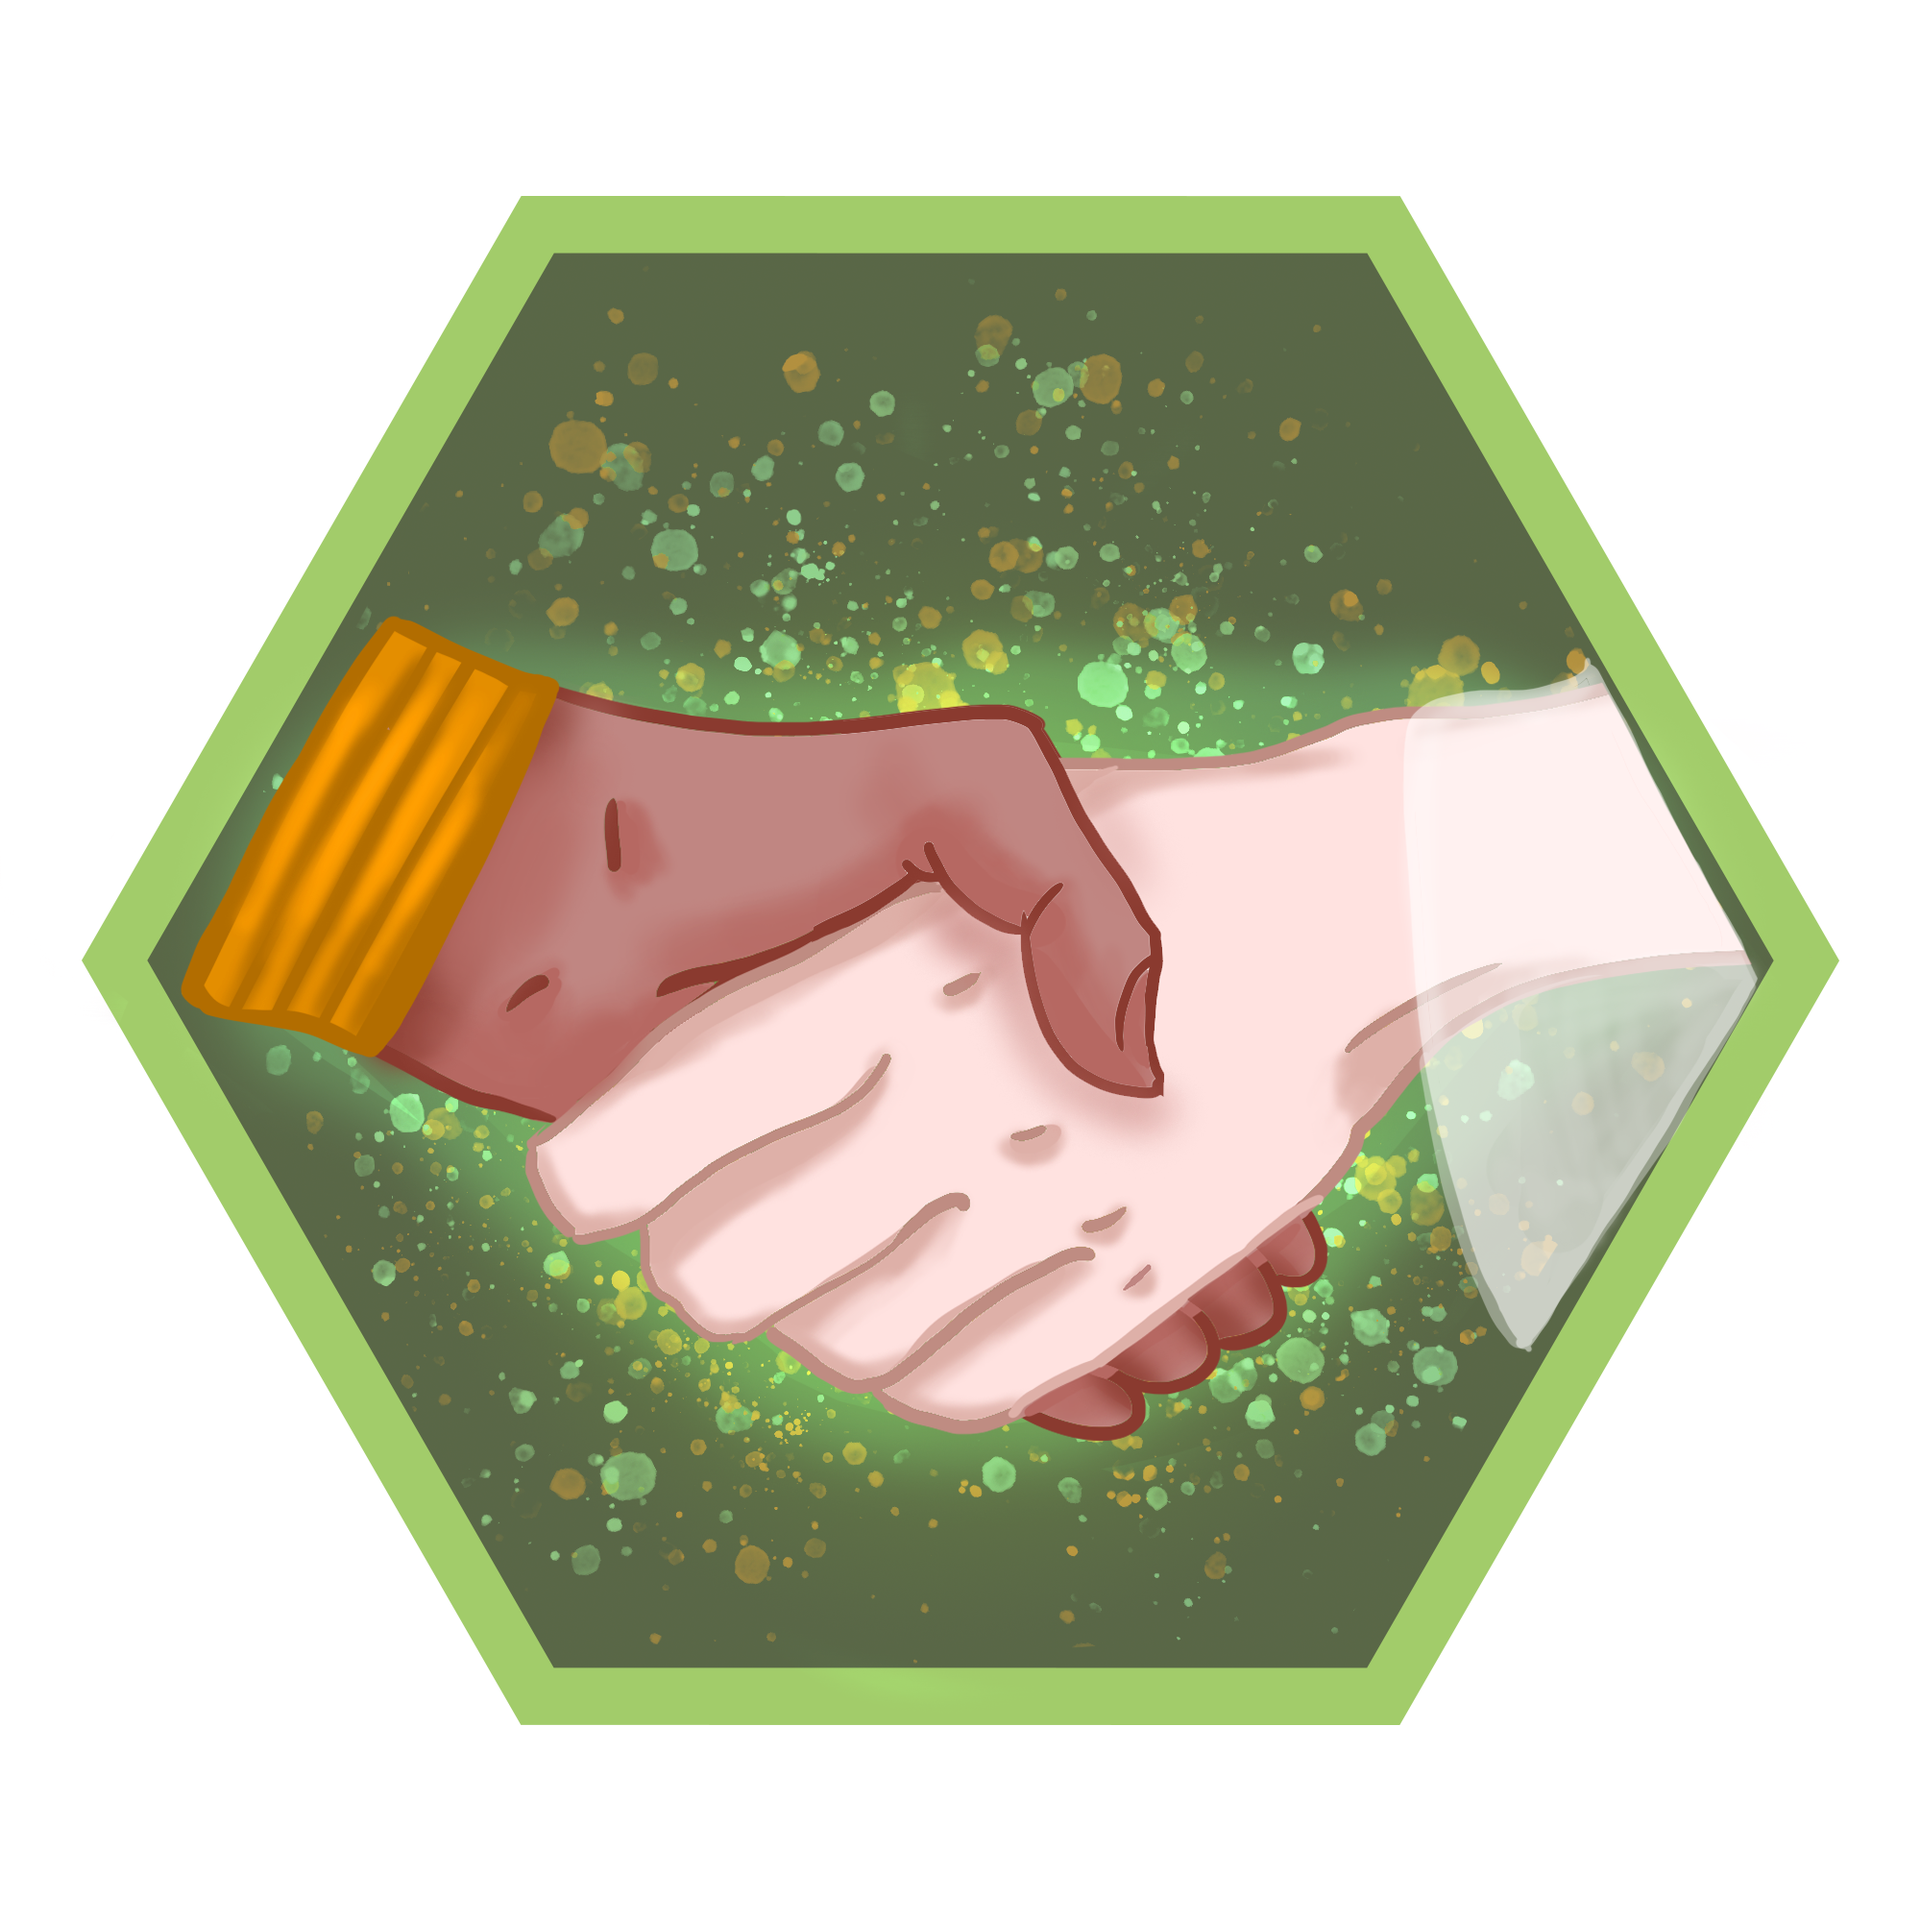
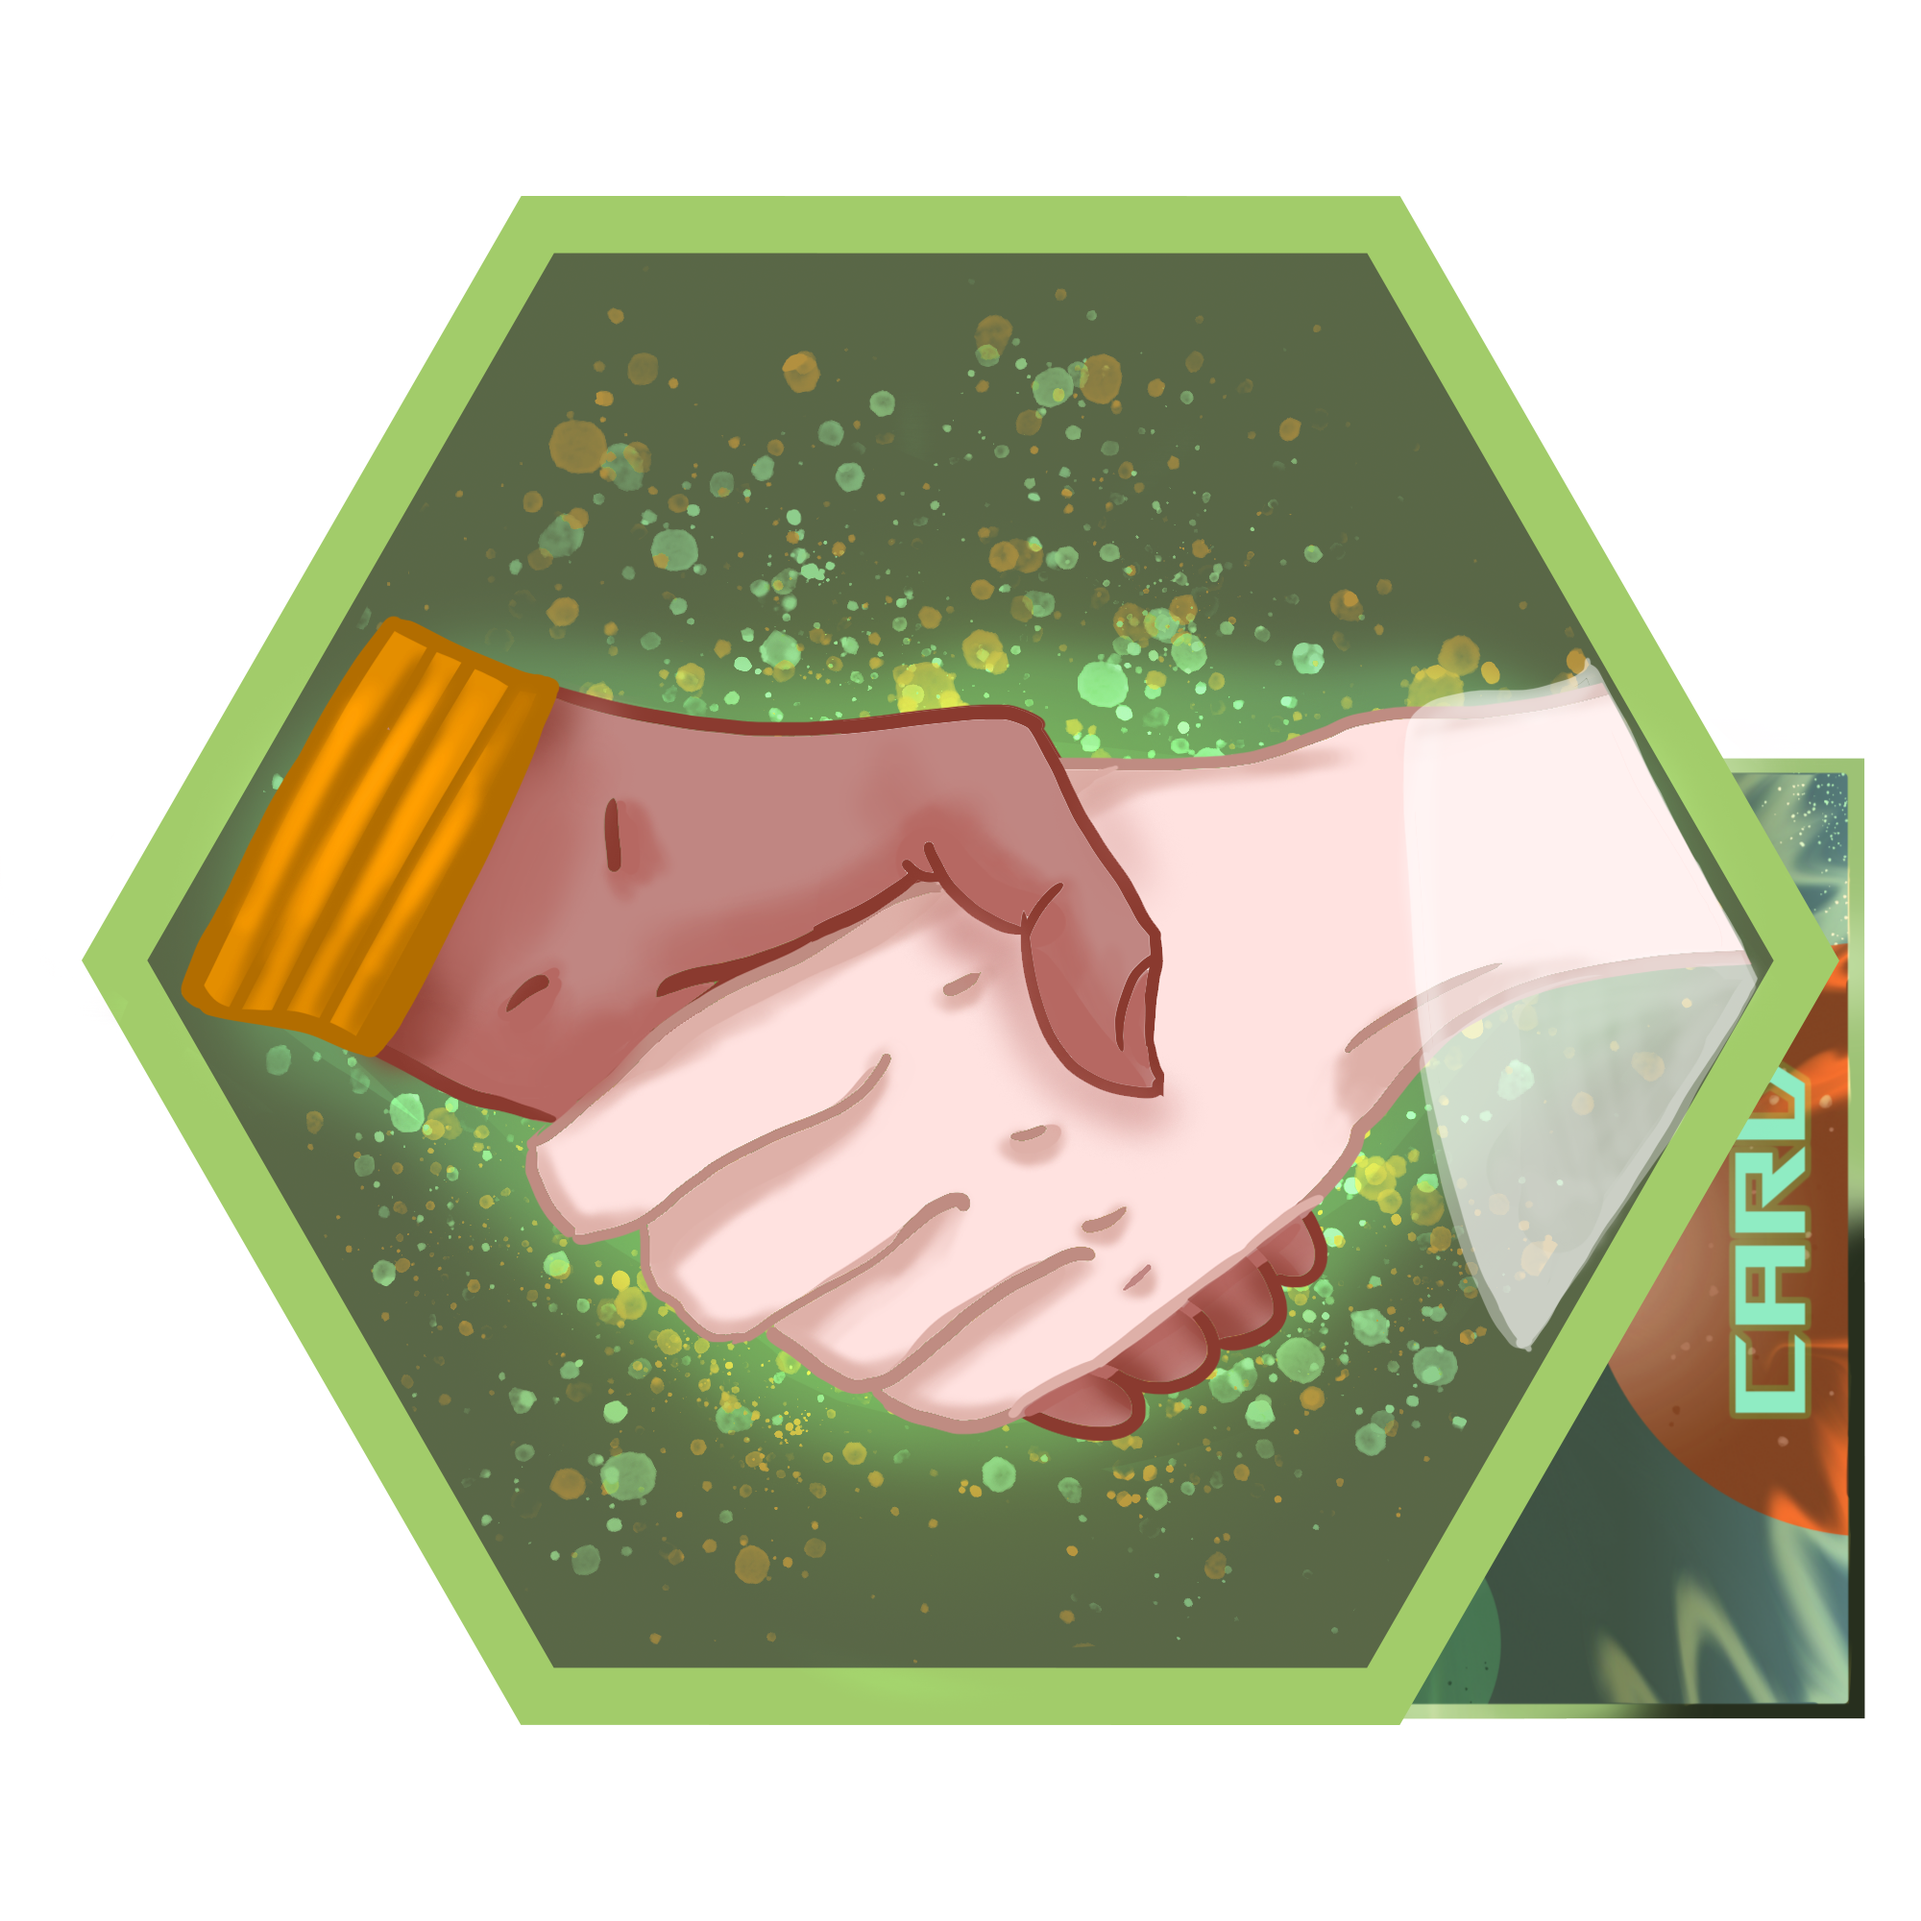
Updated site with more finished examples

Changed region(s): [[0.713, 0.372, 0.992, 0.899]]

diff --git a/index.html b/index.html
@@ -33,58 +33,119 @@
   </div>
 </div>
 
-<!-- Team Container -->
 <div class="w3-container w3-padding-64 w3-center" id="team">
 <h2>About the game</h2>
-<p>Check out the different way you can win!</p>
+<p>?</p>
+
+
+
+<!-- Victory type container -->
+<div class="w3-container w3-padding-64 w3-center" id="team">
+<h2>Victory Types</h2>
+<p>Read about all the victories you can win in this game!</p>
 
 <div class="w3-row"><br>
 
-<div class="w3-quarter">
-  <img src="Science_Icon_Sketch_another.png" alt="Oops" style="width:45%" class="w3-circle w3-hover-opacity">
+<div class="w3-third">
+  <img src="Science_Icon_Sketch_another.png" alt="Oops" style="width:45%" class="w3-square">
   <h3>Science</h3>
   <p>Win Science</p>
 </div>
 
-<div class="w3-quarter">
-  <img src="Culture_Icon_Sketch4.png" alt="Oops" style="width:45%" class="w3-circle w3-hover-opacity">
+<div class="w3-third">
+  <img src="Culture_Icon_Sketch4.png" alt="Oops" style="width:45%" class="w3-square">
   <h3>Win Culture</h3>
   <p>inspiring</p>
 </div>
 
-<div class="w3-quarter">
-  <img src="Domination_Square.png" alt="Oops" style="width:45%" class="w3-circle w3-hover-opacity">
+<div class="w3-third">
+  <img src="Domination_Square.png" alt="Oops" style="width:45%" class="w3-square">
   <h3>Domination</h3>
   <p>kill stuff!</p>
 </div>
 
-<div class="w3-quarter">
-  <img src="/w3images/avatar.jpg" alt="Oops" style="width:45%" class="w3-circle w3-hover-opacity">
-  <h3>You can win all 3</h3>
-  <p>Yes</p>
+</div>
+</div>
+
+<!-- Team Container -->
+<div class="w3-container w3-padding-64 w3-center" id="rules">
+<h2>Tribes</h2>
+<p>About the playable tribes</p>
+
+<div class="w3-row"><br>
+
+<div class="w3-third">
+  <img src="Character 1 board game.png" alt="Oops" style="width:45%" class="w3-circle">
+  <h3>Bane, The Lycanthrope</h3>
+  <p>Bane is a lycanthrope that is permaently transformed.
+  He seeks for a way to let his werewolf Followers have
+  full control over their transformations</p>
+</div>
+
+<div class="w3-third">
+  <img src="Character 2 board game.png" alt="Oops" style="width:45%" class="w3-circle">
+  <h3>Work in progress</h3>
+  <p>Work in progress</p>
+</div>
+
+<div class="w3-third">
+  <img src="Character 3 board game.jpg" alt="Oops" style="width:45%" class="w3-circle">
+  <h3>Gobi, The Sandbender</h3>
+  <p>Gobi is a nomad leader, who has the ability to control sand. He wants his nomad tribe to gain connections with other cultures and to form trade connections with them</p>
+</div>
 </div>
 
 </div>
 </div>
+
+
+<!-- Team Container -->
+<div class="w3-container w3-padding-64 w3-center" id="rules2">
+
+<div class="w3-row"><br>
+
+<div class="w3-third">
+  <img src="Character 4 board game.jpg" alt="Oops" style="width:45%" class="w3-circle">
+  <h3>Alaric, The barbarian king</h3>
+  <p>Alaric is a seasoned warrior with only one goal in mind: Becoming the most powerful leader in the solar system</p>
+</div>
+
+<div class="w3-third">
+  <img src="Character 5 board game.jpg" alt="Oops" style="width:45%" class="w3-circle">
+  <h3>Persephone, the Goddess of Spring</h3>
+  <p>Persephone's powers make it so her planet is always
+	blooming. She is simply looking to grow her tribe and its culture</p>
+</div>
+
+<div class="w3-third">
+  <img src="Character 6 board game.jpg" alt="Oops" style="width:45%" class="w3-circle">
+  <h3>Work in progress</h3>
+  <p>Work in progress</p>
+</div>
+</div>
+
+</div>
+</div>
+
 
 <!-- Work Row -->
 <div class="w3-row-padding w3-padding-64 w3-theme-l1" id="work">
 
 <div class="w3-quarter">
 <h2>Our Team</h2>
-<p>Gibbrish!.</p>
+<p>Our team consist of 6 creative people, providing the best table top experience for you! You can see more info of our members on the right.</p>
 </div>
 
 <div class="w3-quarter">
 <div class="w3-card w3-white">
-  <img src="/w3images/snow.jpg" alt="image background" style="width:100%">
+  <img src="Member Card EAP.png" alt="image background" style="width:100%">
   <div class="w3-container">
-  <h3>TEAM GUY HERE</h3>
-  <h4>ROLE or something</h4>
-  <p>Something to say!</p>
-  <p>Blablabla</p>
-  <p>Blablabla</p>
-  <p>Blablabla</p>
+  <h3>Maryn Kruithof</h3>
+  <h4>Team Leader, Designer, Engineer</h4>
+  <p>Brag a bit about myself</p>
+  <p>Main developer of a huge mod project</p>
+  <p>I can drink twice as much as the average person without getting drunk</p>
+  <p></p>
   </div>
   </div>
 </div>
@@ -118,6 +179,8 @@
 </div>
 
 </div>
+
+
 
 <!-- Container -->
 <div class="w3-container" style="position:relative">
